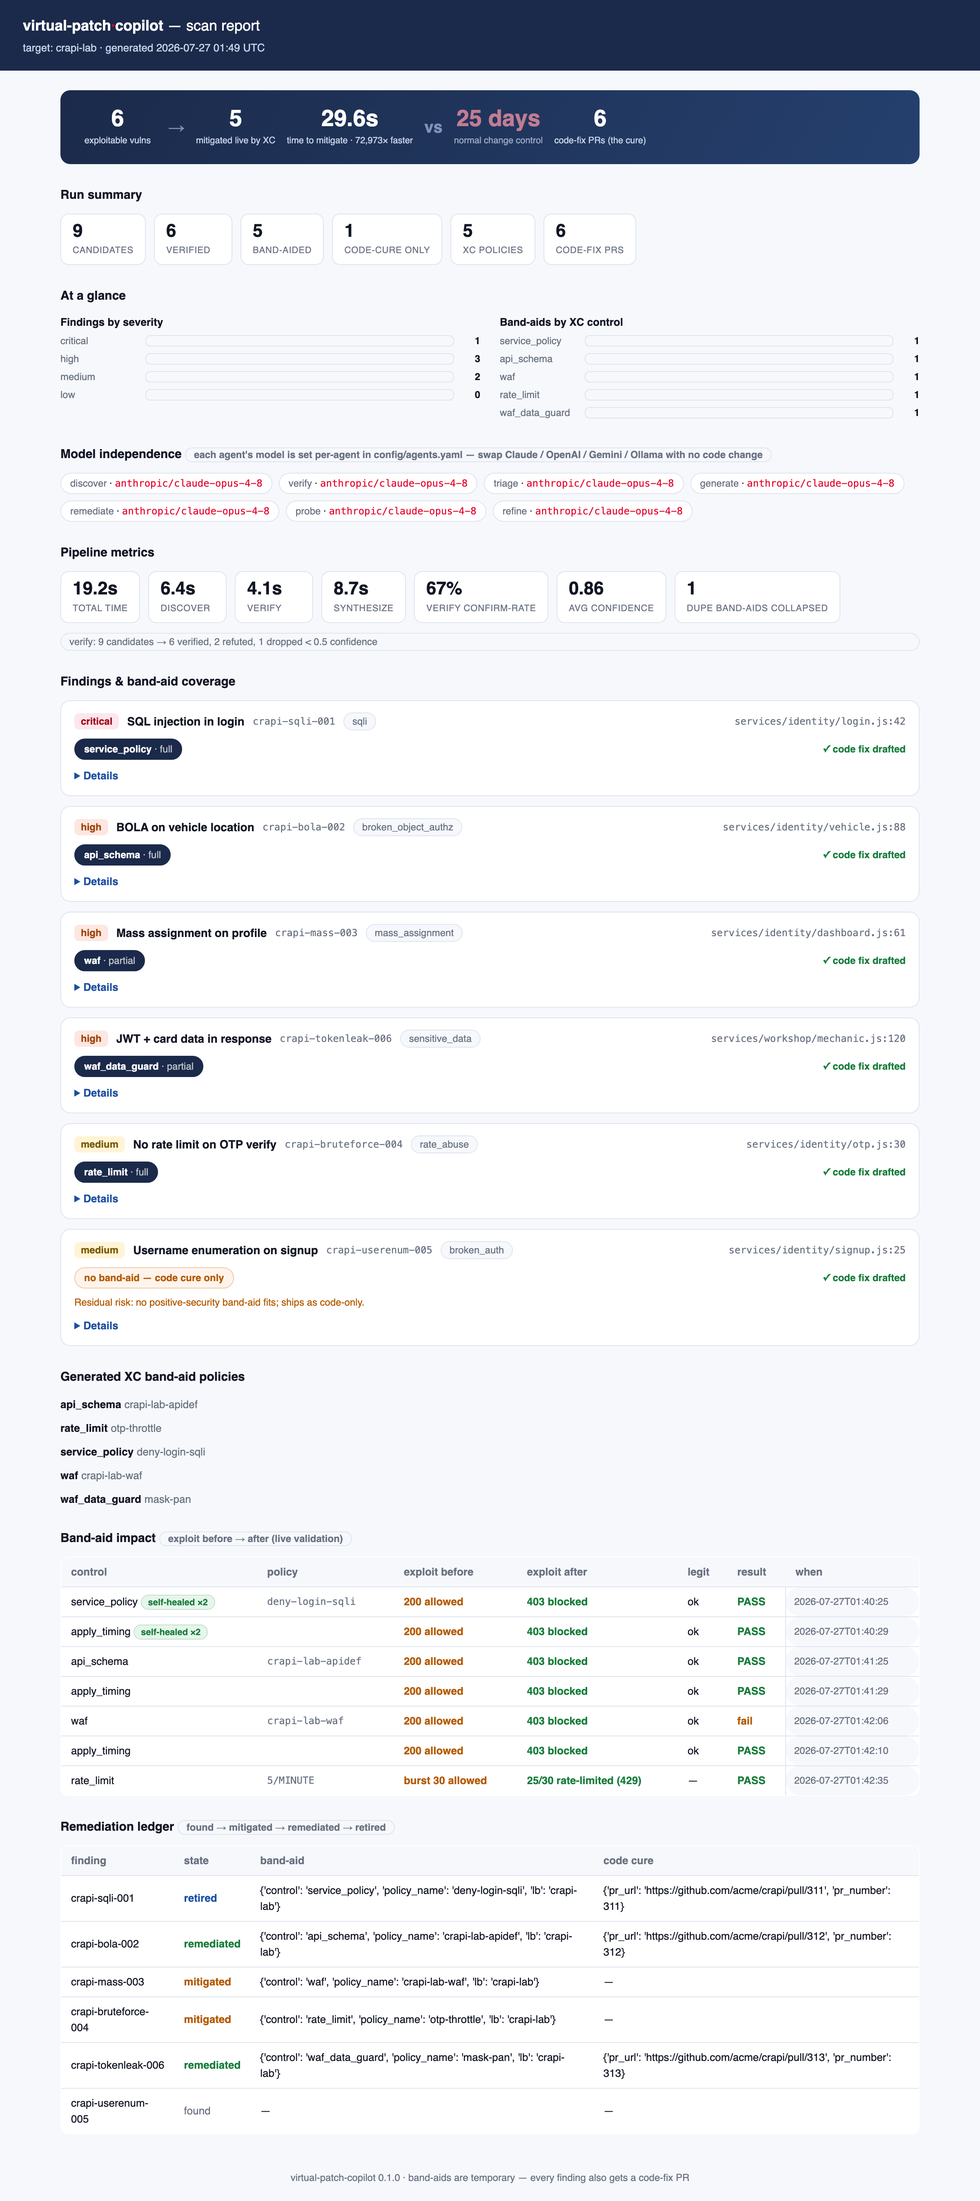
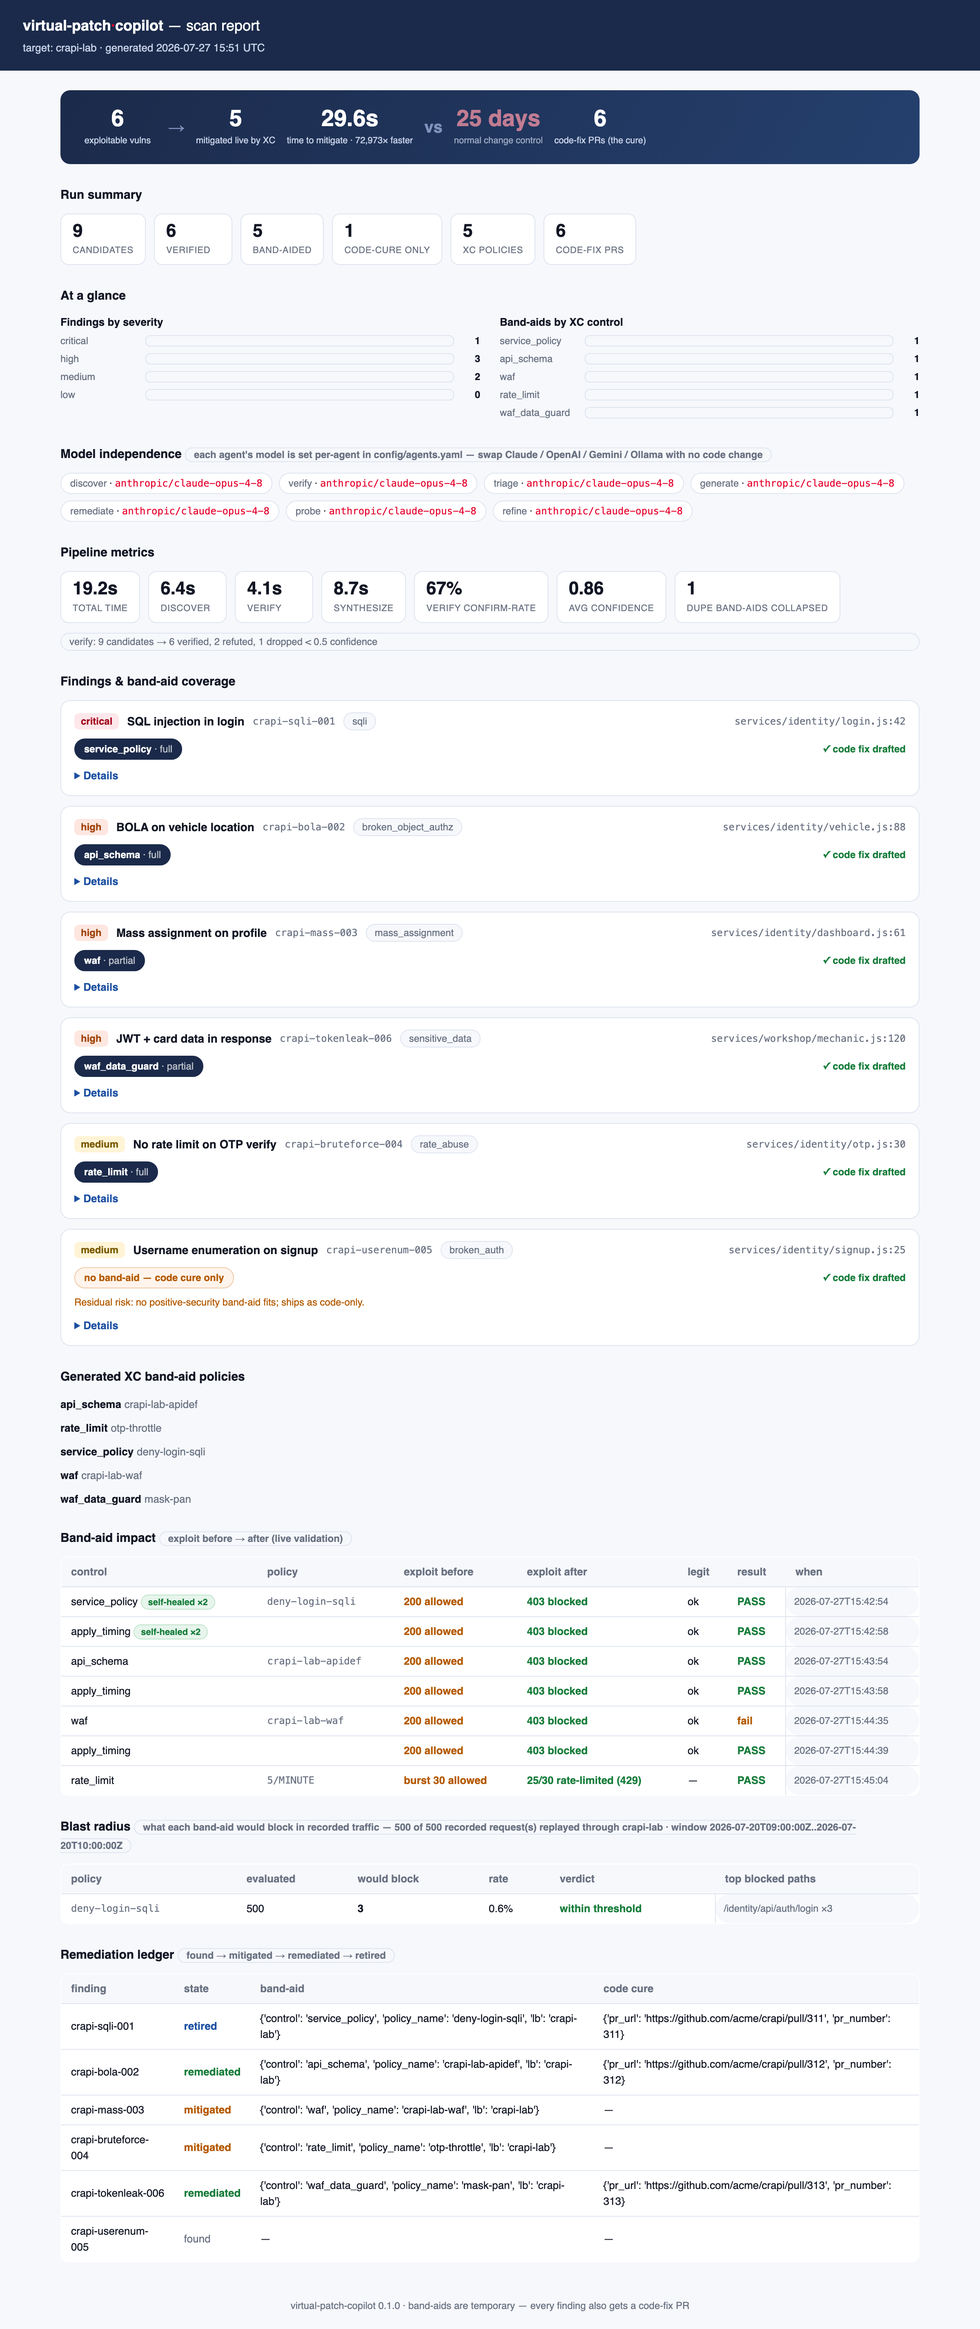
docs(g2): curated simulation in the demo dataset + regenerated screenshots
The Simulate step rendered its empty state in the offline demo, and every screenshot still showed
the six-step nav.

demo/build_demo_out.py writes a curated `simulation.json`: the SQLi service policy replayed against
500 recorded requests, blocking 3 — all attacks on the login endpoint — for 0.6%, under the
threshold. That is the honest picture for this dataset: only `service_policy` is replayable (the
other six controls are parameterized by the engine rather than matched per request), so one policy
is the whole story, and the result shown is the surgical outcome the demo is about. Redaction counts
and the caveats ride along so the demo shows the honesty, not just the number.

Screenshots regenerated at 1200px/2x against a credential-free .env, and renamed to match the new
step numbers: 3-mitigate.png -> 4-mitigate.png, 5-retire.png -> 6-retire.png, plus a new
3-simulate.png. README and DEMO.md references updated; no stale names remain. report.png grew by the
Blast radius panel.

diff --git a/demo/out/report.html b/demo/out/report.html
@@ -57,7 +57,7 @@ footer{color:var(--grey);font-size:12px;padding:20px 28px;text-align:center}
 .model .a{color:var(--grey)}.model .m{font-family:ui-monospace,Menlo,monospace;color:var(--f5)}
 </style></head><body>
 <header><h1>virtual-patch<span class="dot">·</span>copilot <span style="font-weight:400">— scan report</span></h1>
-<div class="sub">target: crapi-lab · generated 2026-07-27 01:49 UTC</div></header>
+<div class="sub">target: crapi-lab · generated 2026-07-27 15:51 UTC</div></header>
 <main>
 <div class="hero"><div class="h"><span class="n">6</span><span class="l">exploitable vulns</span></div><span class="sep">→</span><div class="h"><span class="n">5</span><span class="l">mitigated live by XC</span></div><div class="h"><span class="n">29.6s</span><span class="l">time to mitigate · 72,973× faster</span></div><span class="sep">vs</span><div class="h dim"><span class="n red">25 days</span><span class="l">normal change control</span></div><div class="h"><span class="n">6</span><span class="l">code-fix PRs (the cure)</span></div></div>
 <h2>Run summary</h2><div class="chips"><div class="chip"><span class="n">9</span><span class="l">candidates</span></div><div class="chip"><span class="n">6</span><span class="l">verified</span></div><div class="chip"><span class="n">5</span><span class="l">band-aided</span></div><div class="chip"><span class="n">1</span><span class="l">code-cure only</span></div><div class="chip"><span class="n">5</span><span class="l">XC policies</span></div><div class="chip"><span class="n">6</span><span class="l">code-fix PRs</span></div></div>
@@ -66,7 +66,7 @@ footer{color:var(--grey);font-size:12px;padding:20px 28px;text-align:center}
 <h2>Pipeline metrics</h2><div class="chips"><div class="chip"><span class="n">19.2s</span><span class="l">total time</span></div><div class="chip"><span class="n">6.4s</span><span class="l">discover</span></div><div class="chip"><span class="n">4.1s</span><span class="l">verify</span></div><div class="chip"><span class="n">8.7s</span><span class="l">synthesize</span></div><div class="chip"><span class="n">67%</span><span class="l">verify confirm-rate</span></div><div class="chip"><span class="n">0.86</span><span class="l">avg confidence</span></div><div class="chip"><span class="n">1</span><span class="l">dupe band-aids collapsed</span></div></div><p class="cls">verify: 9 candidates → 6 verified, 2 refuted, 1 dropped &lt; 0.5 confidence</p>
 <h2>Findings &amp; band-aid coverage</h2><div class="card"><div class="fhead"><span class="pill sev-critical">critical</span><span class="title">SQL injection in login</span><span class="id">crapi-sqli-001</span><span class="cls">sqli</span><span class="file">services/identity/login.js:42</span></div><div class="bandaids"><span class="ba rec">service_policy <span class="cov">· full</span></span><span class="cure">✓ code fix drafted</span></div><details><summary>Details</summary><div class="body"><p><span class="k">Description:</span> The email field is concatenated straight into the auth query.</p><p><span class="k">Exploit:</span> email=&quot; OR 1=1 -- lets any password through and dumps the users table.</p><p><span class="k">Code cure:</span> Fix sql injection in login</p></div></details></div><div class="card"><div class="fhead"><span class="pill sev-high">high</span><span class="title">BOLA on vehicle location</span><span class="id">crapi-bola-002</span><span class="cls">broken_object_authz</span><span class="file">services/identity/vehicle.js:88</span></div><div class="bandaids"><span class="ba rec">api_schema <span class="cov">· full</span></span><span class="cure">✓ code fix drafted</span></div><details><summary>Details</summary><div class="body"><p><span class="k">Description:</span> Any authenticated user can read another user&#x27;s vehicle GPS by id.</p><p><span class="k">Exploit:</span> Swap {id} to another user&#x27;s vehicle uuid; server returns their live location.</p><p><span class="k">Code cure:</span> Fix bola on vehicle location</p></div></details></div><div class="card"><div class="fhead"><span class="pill sev-high">high</span><span class="title">Mass assignment on profile</span><span class="id">crapi-mass-003</span><span class="cls">mass_assignment</span><span class="file">services/identity/dashboard.js:61</span></div><div class="bandaids"><span class="ba rec">waf <span class="cov">· partial</span></span><span class="cure">✓ code fix drafted</span></div><details><summary>Details</summary><div class="body"><p><span class="k">Description:</span> The update handler binds the whole body, so `role` and `credit` are writable.</p><p><span class="k">Exploit:</span> POST {&quot;role&quot;:&quot;admin&quot;,&quot;available_credit&quot;:9999} — privilege + balance escalation.</p><p><span class="k">Code cure:</span> Fix mass assignment on profile</p></div></details></div><div class="card"><div class="fhead"><span class="pill sev-high">high</span><span class="title">JWT + card data in response</span><span class="id">crapi-tokenleak-006</span><span class="cls">sensitive_data</span><span class="file">services/workshop/mechanic.js:120</span></div><div class="bandaids"><span class="ba rec">waf_data_guard <span class="cov">· partial</span></span><span class="cure">✓ code fix drafted</span></div><details><summary>Details</summary><div class="body"><p><span class="k">Description:</span> The receipt payload echoes the full PAN and a signed service token.</p><p><span class="k">Exploit:</span> GET a receipt; response body contains the 16-digit card number in cleartext.</p><p><span class="k">Code cure:</span> Fix jwt + card data in response</p></div></details></div><div class="card"><div class="fhead"><span class="pill sev-medium">medium</span><span class="title">No rate limit on OTP verify</span><span class="id">crapi-bruteforce-004</span><span class="cls">rate_abuse</span><span class="file">services/identity/otp.js:30</span></div><div class="bandaids"><span class="ba rec">rate_limit <span class="cov">· full</span></span><span class="cure">✓ code fix drafted</span></div><details><summary>Details</summary><div class="body"><p><span class="k">Description:</span> The 4-digit OTP endpoint has no throttle — brute-forceable in minutes.</p><p><span class="k">Exploit:</span> Fire all 10k OTPs; no lockout, no delay.</p><p><span class="k">Code cure:</span> Fix no rate limit on otp verify</p></div></details></div><div class="card"><div class="fhead"><span class="pill sev-medium">medium</span><span class="title">Username enumeration on signup</span><span class="id">crapi-userenum-005</span><span class="cls">broken_auth</span><span class="file">services/identity/signup.js:25</span></div><div class="bandaids"><span class="ba nob">no band-aid — code cure only</span><span class="cure">✓ code fix drafted</span></div><div class="resid">Residual risk: no positive-security band-aid fits; ships as code-only.</div><details><summary>Details</summary><div class="body"><p><span class="k">Description:</span> Distinct errors for taken vs free emails leak which accounts exist.</p><p><span class="k">Exploit:</span> Diff the &#x27;already registered&#x27; vs &#x27;ok&#x27; responses to enumerate users.</p><p><span class="k">Code cure:</span> Fix username enumeration on signup</p></div></details></div>
 <h2>Generated XC band-aid policies</h2><div class="polgrp"><span class="h">api_schema</span> <span class="items">crapi-lab-apidef</span></div><div class="polgrp"><span class="h">rate_limit</span> <span class="items">otp-throttle</span></div><div class="polgrp"><span class="h">service_policy</span> <span class="items">deny-login-sqli</span></div><div class="polgrp"><span class="h">waf</span> <span class="items">crapi-lab-waf</span></div><div class="polgrp"><span class="h">waf_data_guard</span> <span class="items">mask-pan</span></div>
-<h2>Band-aid impact <span class="cls">exploit before → after (live validation)</span></h2><table><tr><th>control</th><th>policy</th><th>exploit before</th><th>exploit after</th><th>legit</th><th>result</th><th>when</th></tr><tr><td>service_policy <span class="badge">self-healed ×2</span></td><td class="file">deny-login-sqli</td><td><span class="st-mitigated">200 allowed</span></td><td><span class="st-remediated">403 blocked</span></td><td>ok</td><td><span class="st-remediated">PASS</span></td><td class="cls">2026-07-27T01:40:25</td></tr><tr><td>apply_timing <span class="badge">self-healed ×2</span></td><td class="file"></td><td><span class="st-mitigated">200 allowed</span></td><td><span class="st-remediated">403 blocked</span></td><td>ok</td><td><span class="st-remediated">PASS</span></td><td class="cls">2026-07-27T01:40:29</td></tr><tr><td>api_schema</td><td class="file">crapi-lab-apidef</td><td><span class="st-mitigated">200 allowed</span></td><td><span class="st-remediated">403 blocked</span></td><td>ok</td><td><span class="st-remediated">PASS</span></td><td class="cls">2026-07-27T01:41:25</td></tr><tr><td>apply_timing</td><td class="file"></td><td><span class="st-mitigated">200 allowed</span></td><td><span class="st-remediated">403 blocked</span></td><td>ok</td><td><span class="st-remediated">PASS</span></td><td class="cls">2026-07-27T01:41:29</td></tr><tr><td>waf</td><td class="file">crapi-lab-waf</td><td><span class="st-mitigated">200 allowed</span></td><td><span class="st-remediated">403 blocked</span></td><td>ok</td><td><span class="st-mitigated">fail</span></td><td class="cls">2026-07-27T01:42:06</td></tr><tr><td>apply_timing</td><td class="file"></td><td><span class="st-mitigated">200 allowed</span></td><td><span class="st-remediated">403 blocked</span></td><td>ok</td><td><span class="st-remediated">PASS</span></td><td class="cls">2026-07-27T01:42:10</td></tr><tr><td>rate_limit</td><td class="file">5/MINUTE</td><td><span class="st-mitigated">burst 30 allowed</span></td><td><span class="st-remediated">25/30 rate-limited (429)</span></td><td>—</td><td><span class="st-remediated">PASS</span></td><td class="cls">2026-07-27T01:42:35</td></tr></table>
+<h2>Band-aid impact <span class="cls">exploit before → after (live validation)</span></h2><table><tr><th>control</th><th>policy</th><th>exploit before</th><th>exploit after</th><th>legit</th><th>result</th><th>when</th></tr><tr><td>service_policy <span class="badge">self-healed ×2</span></td><td class="file">deny-login-sqli</td><td><span class="st-mitigated">200 allowed</span></td><td><span class="st-remediated">403 blocked</span></td><td>ok</td><td><span class="st-remediated">PASS</span></td><td class="cls">2026-07-27T15:42:54</td></tr><tr><td>apply_timing <span class="badge">self-healed ×2</span></td><td class="file"></td><td><span class="st-mitigated">200 allowed</span></td><td><span class="st-remediated">403 blocked</span></td><td>ok</td><td><span class="st-remediated">PASS</span></td><td class="cls">2026-07-27T15:42:58</td></tr><tr><td>api_schema</td><td class="file">crapi-lab-apidef</td><td><span class="st-mitigated">200 allowed</span></td><td><span class="st-remediated">403 blocked</span></td><td>ok</td><td><span class="st-remediated">PASS</span></td><td class="cls">2026-07-27T15:43:54</td></tr><tr><td>apply_timing</td><td class="file"></td><td><span class="st-mitigated">200 allowed</span></td><td><span class="st-remediated">403 blocked</span></td><td>ok</td><td><span class="st-remediated">PASS</span></td><td class="cls">2026-07-27T15:43:58</td></tr><tr><td>waf</td><td class="file">crapi-lab-waf</td><td><span class="st-mitigated">200 allowed</span></td><td><span class="st-remediated">403 blocked</span></td><td>ok</td><td><span class="st-mitigated">fail</span></td><td class="cls">2026-07-27T15:44:35</td></tr><tr><td>apply_timing</td><td class="file"></td><td><span class="st-mitigated">200 allowed</span></td><td><span class="st-remediated">403 blocked</span></td><td>ok</td><td><span class="st-remediated">PASS</span></td><td class="cls">2026-07-27T15:44:39</td></tr><tr><td>rate_limit</td><td class="file">5/MINUTE</td><td><span class="st-mitigated">burst 30 allowed</span></td><td><span class="st-remediated">25/30 rate-limited (429)</span></td><td>—</td><td><span class="st-remediated">PASS</span></td><td class="cls">2026-07-27T15:45:04</td></tr></table><h2>Blast radius <span class="cls">what each band-aid would block in recorded traffic — 500 of 500 recorded request(s) replayed through crapi-lab · window 2026-07-20T09:00:00Z..2026-07-20T10:00:00Z</span></h2><table><tr><th>policy</th><th>evaluated</th><th>would block</th><th>rate</th><th>verdict</th><th>top blocked paths</th></tr><tr><td class="file">deny-login-sqli</td><td>500</td><td><b>3</b></td><td>0.6%</td><td><span class="st-remediated">within threshold</span></td><td class="cls">/identity/api/auth/login ×3</td></tr></table>
 <h2>Remediation ledger <span class="cls">found → mitigated → remediated → retired</span></h2><table><tr><th>finding</th><th>state</th><th>band-aid</th><th>code cure</th></tr><tr><td>crapi-sqli-001</td><td class="st-retired">retired</td><td>{&#x27;control&#x27;: &#x27;service_policy&#x27;, &#x27;policy_name&#x27;: &#x27;deny-login-sqli&#x27;, &#x27;lb&#x27;: &#x27;crapi-lab&#x27;}</td><td>{&#x27;pr_url&#x27;: &#x27;https://github.com/acme/crapi/pull/311&#x27;, &#x27;pr_number&#x27;: 311}</td></tr><tr><td>crapi-bola-002</td><td class="st-remediated">remediated</td><td>{&#x27;control&#x27;: &#x27;api_schema&#x27;, &#x27;policy_name&#x27;: &#x27;crapi-lab-apidef&#x27;, &#x27;lb&#x27;: &#x27;crapi-lab&#x27;}</td><td>{&#x27;pr_url&#x27;: &#x27;https://github.com/acme/crapi/pull/312&#x27;, &#x27;pr_number&#x27;: 312}</td></tr><tr><td>crapi-mass-003</td><td class="st-mitigated">mitigated</td><td>{&#x27;control&#x27;: &#x27;waf&#x27;, &#x27;policy_name&#x27;: &#x27;crapi-lab-waf&#x27;, &#x27;lb&#x27;: &#x27;crapi-lab&#x27;}</td><td>—</td></tr><tr><td>crapi-bruteforce-004</td><td class="st-mitigated">mitigated</td><td>{&#x27;control&#x27;: &#x27;rate_limit&#x27;, &#x27;policy_name&#x27;: &#x27;otp-throttle&#x27;, &#x27;lb&#x27;: &#x27;crapi-lab&#x27;}</td><td>—</td></tr><tr><td>crapi-tokenleak-006</td><td class="st-remediated">remediated</td><td>{&#x27;control&#x27;: &#x27;waf_data_guard&#x27;, &#x27;policy_name&#x27;: &#x27;mask-pan&#x27;, &#x27;lb&#x27;: &#x27;crapi-lab&#x27;}</td><td>{&#x27;pr_url&#x27;: &#x27;https://github.com/acme/crapi/pull/313&#x27;, &#x27;pr_number&#x27;: 313}</td></tr><tr><td>crapi-userenum-005</td><td class="st-found">found</td><td>—</td><td>—</td></tr></table>
 </main>
 <footer>virtual-patch-copilot 0.1.0 · band-aids are temporary — every finding also gets a code-fix PR</footer>

diff --git a/demo/build_demo_out.py b/demo/build_demo_out.py
@@ -197,6 +197,35 @@ def main():
                  control="service_policy", lb=LB, forced=False)
     _curate_identity()
 
+    # G2) a curated blast-radius result, so the offline demo shows the Simulate step doing its job:
+    # the SQLi service policy is surgical — it blocks the attack and nothing a customer does.
+    # Only service_policy is replayable (the other six are parameterized by the engine, not matched
+    # per request), so one policy is the honest picture for this dataset.
+    (OUT / "simulation.json").write_text(json.dumps({
+        "ts": runmeta.utc_now(), "lb": LB, "source": f"xc:{LB}",
+        "records": 500, "records_replayed": 500,
+        "window": "2026-07-20T09:00:00Z..2026-07-20T10:00:00Z",
+        "redacted": {"authorization": 500, "cookie": 431, "password": 12},
+        "bodies_available": True,
+        "policies": [{
+            "policy_name": "deny-login-sqli", "control": "service_policy",
+            "finding_id": "crapi-sqli-001", "evaluated": 500, "would_block": 3,
+            "block_rate": 0.006, "threshold": 0.01, "blocked_promotion": False, "reason": "",
+            "errored": 0, "enforcement_confirmed": True,
+            "samples": [{"method": "POST", "path": "/identity/api/auth/login", "source": "xc",
+                         "json_body": None, "user_agent": "python-requests/2.31",
+                         "ts": "2026-07-20T09:14:02Z", "status": 200}],
+            "top_paths": [["/identity/api/auth/login", 3]],
+            "top_user_agents": [["python-requests/2.31", 2], ["sqlmap/1.7", 1]],
+        }],
+        "caveats": [
+            "A would-block count describes THIS sample only — a quiet window makes any policy look "
+            "safe. The window and record count are stated above; read them together with the rate.",
+            "Replay runs one policy at a time on a spare LB. Two candidates share FIRST_MATCH "
+            "ordering, so a batched result would not describe either band-aid alone.",
+        ],
+    }, indent=2))
+
     from vpcopilot.report import write_report
     path = write_report(str(OUT))
     print(f"wrote curated demo out/ -> {OUT}")

diff --git a/docs/DEMO.md b/docs/DEMO.md
@@ -118,13 +118,14 @@ story on their own:
 |---|---|
 | Scan — the target form and its scrollable run log | [`1-scan.png`](images/1-scan.png) |
 | Review — hero band + findings + the HTML-report buttons | [`2-review.png`](images/2-review.png) |
-| Mitigate — per-finding live apply | [`3-mitigate.png`](images/3-mitigate.png) |
-| Retire — four-state ledger (`crapi-sqli-001` at *retired*) + the audit trail | [`5-retire.png`](images/5-retire.png) |
+| Simulate — blast radius of each candidate before it is applied | [`3-simulate.png`](images/3-simulate.png) |
+| Mitigate — per-finding live apply | [`4-mitigate.png`](images/4-mitigate.png) |
+| Retire — four-state ledger (`crapi-sqli-001` at *retired*) + the audit trail | [`6-retire.png`](images/6-retire.png) |
 | The shareable HTML report (self-heal ×2 + rate-limit proof) | [`report.png`](images/report.png) |
 
 To regenerate them: rebuild the dataset with `python3 demo/build_demo_out.py`, run
 `VPCOPILOT_OUT=demo/out vpcopilot console`, then capture the `#scan`, `#review`, `#mitigate` and
-`#retire` steps plus `demo/out/report.html` at 1200px wide / 2× device pixel ratio.
+`#simulate`, `#mitigate` and `#retire` steps plus `demo/out/report.html` at 1200px wide / 2× device pixel ratio.
 
 Point the console at a **credential-free** `.env` when you do (`VPCOPILOT_ENV=…`): with XC creds
 loaded, the hero band renders a deep link carrying your tenant hostname and namespace, and that

diff --git a/README.md b/README.md
@@ -115,16 +115,22 @@ The shareable HTML report opens (or downloads) from **Review** and from **Setup*
 from the current run dir on every open, so it's always the latest run. Credentials, XC status, and
 the per-agent model wiring live under **Setup**.
 
+**③ Simulate** — replay recorded traffic against each candidate and see what it *would* block
+before anything is applied. Here the SQLi service policy is surgical: 3 blocks in 500 recorded
+requests, all of them attacks on the login endpoint:
+
+![Simulate step — blast radius](docs/images/3-simulate.png)
+
 **④ Mitigate** — apply each band-aid and watch it validate:
 
-![Mitigate step](docs/images/3-mitigate.png)
+![Mitigate step](docs/images/4-mitigate.png)
 
 **⑥ Retire** — the four-state ledger (here `crapi-sqli-001` walked all the way to *retired*), and
 under it the audit trail: each change tied to the vulnerability that justified it, the LB and XC
 namespace it touched, whether it's still live, and who ran it. Dry runs are absent by design —
 nothing changed, so there is nothing to answer for.
 
-![Retire step — ledger and audit trail](docs/images/5-retire.png)
+![Retire step — ledger and audit trail](docs/images/6-retire.png)
 
 Every scan also drops a standalone, shareable **`report.html`** — the same hero plus at-a-glance
 bars, the self-heal (`200 → 403`, *self-healed ×2*), the rate-limit behavioral proof, and the
